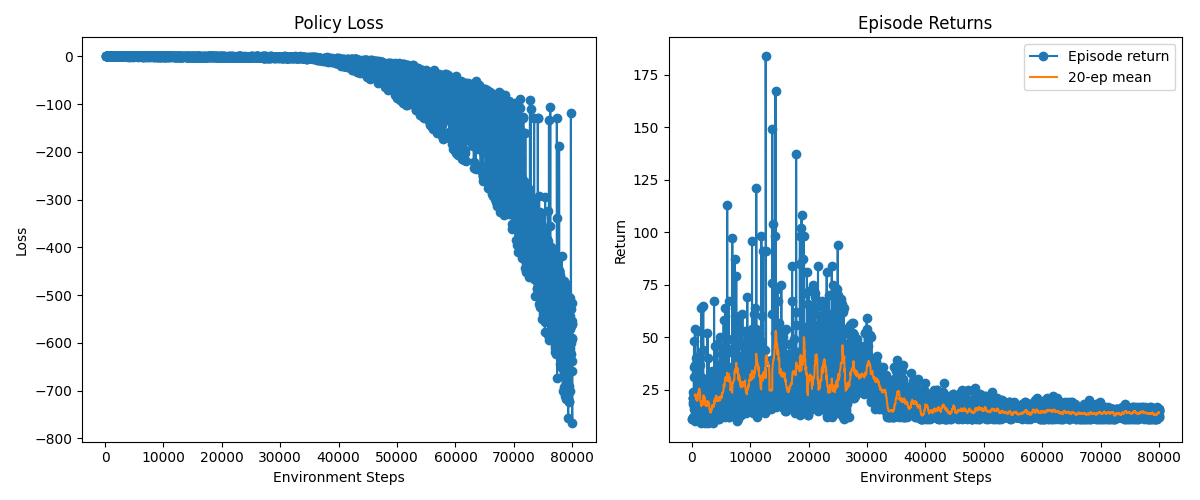
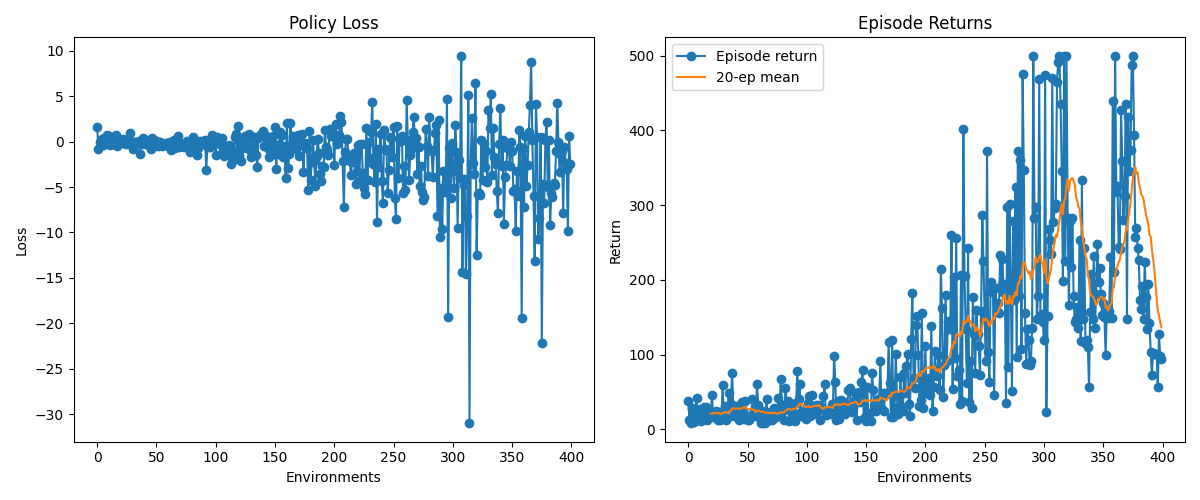
simplify code to work on a single environment - no batches

diff --git a/experiments/cartpole/train.py b/experiments/cartpole/train.py
@@ -41,18 +41,14 @@ def policy_gradient_loss(logits: torch.Tensor,
     loss = -(chosen_log_probs * advantages).mean()
     return loss
 
-num_steps = 10000
+num_episodes = 400
 optimizer = torch.optim.Adam(policy_model.parameters(), lr=1e-3)
-batch_size = 8
 gamma = 0.99
 
 # 3. Environment setup
 
-envs = gym.vector.SyncVectorEnv(
-    [lambda: gym.make("CartPole-v1") for _ in range(batch_size)],
-    autoreset_mode=gym.vector.AutoresetMode.NEXT_STEP
-)
-observations, info = envs.reset()
+env = gym.make("CartPole-v1")
+observations, info = env.reset()
 
 def discounted_returns(rewards, gamma):
     returns = []
@@ -64,103 +60,69 @@ def discounted_returns(rewards, gamma):
     return torch.tensor(returns, dtype=torch.float32)
 
 
-# logging variables
-losses = []
-loss_steps = []
-episode_observations = [[] for _ in range(batch_size)]
-episode_actions = [[] for _ in range(batch_size)]
-episode_rewards = [[] for _ in range(batch_size)]
-completed_rewards = []
-completed_steps = []
-total_env_steps = 0
-
 # 4. Training loop
+losses = []
+completed_rewards = []
 
-for epoch_id in range(num_steps):
+for episode in range(num_episodes):
 
-    # get action from policy
-    torch_observations = torch.tensor(observations, dtype=torch.float32)
-    logits = policy_model(torch_observations)
-    dist = torch.distributions.Categorical(logits=logits)
-    actions = dist.sample()
+    observation, _ = env.reset()
+    log_probs_episode = []
+    rewards_episode = []
+    done = False
 
-    # get observation from environment
-    observations, rewards, terminated, truncated, info = envs.step(actions.numpy())
+    while not done:
+
+        # get action from policy
+        torch_observations = torch.tensor(observations, dtype=torch.float32)
+        logits = policy_model(torch_observations)
+        dist = torch.distributions.Categorical(logits=logits)
+        actions = dist.sample()
+
+        # get observation from environment
+        observations, rewards, terminated, truncated, info = env.step(actions.numpy())
+        done = terminated or truncated
+
+        # store log probs and rewards
+        log_probs_episode.append(dist.log_prob(actions))
+        rewards_episode.append(rewards)
+    
+    # compute returns and advantages
+    returns = discounted_returns(rewards_episode, gamma=gamma)
+    advantages = (returns - returns.mean()) / (returns.std(unbiased=False) + 1e-8)
+
+    # loss
+    loss = -(torch.stack(log_probs_episode) * advantages).sum()
+    losses.append(loss.item())
+
+    # update policy
+    optimizer.zero_grad()
+    loss.backward()
+    optimizer.step()
 
     # logging
-    total_env_steps += batch_size
-    for i in range(batch_size):
-        episode_observations[i].append(observations[i])
-        episode_actions[i].append(actions[i].item())
-        episode_rewards[i].append(rewards[i])
+    completed_rewards.append(sum(rewards_episode))
 
-    # update only for completed episodes
-    done = terminated | truncated
-    if done.any():
-
-        # zero gradients
-        optimizer.zero_grad()
-
-        # compute loss for completed episodes and update policy
-        done_indices = np.where(done)[0].tolist()
-        per_episode_losses = []
-        for i in done_indices:
-
-            obs_tensor = torch.tensor(
-                np.array(episode_observations[i], dtype=np.float32),
-                dtype=torch.float32,
-            )
-            act_tensor = torch.tensor(episode_actions[i], dtype=torch.int64)
-            
-            # compute policy
-            logits_ep = policy_model(obs_tensor)
-            log_probs_ep = F.log_softmax(logits_ep, dim=-1)
-
-            # compute discounted returns and advantages
-            returns = discounted_returns(episode_rewards[i], gamma=gamma)
-            advantages = (returns - returns.mean()) / (returns.std(unbiased=False) + 1e-8)
-            
-            # compute loss for the episode
-            loss = policy_gradient_loss(logits_ep, act_tensor, advantages)
-            per_episode_losses.append(loss)
-
-            # log episode return and reset episode data
-            completed_rewards.append(float(sum(episode_rewards[i])))
-            completed_steps.append(total_env_steps)
-            episode_observations[i] = []
-            episode_actions[i] = []
-            episode_rewards[i] = []
-
-        # compute mean loss across completed episodes and update policy
-        loss = torch.stack(per_episode_losses).mean()
-        loss.backward()
-        optimizer.step()
-
-        losses.append(loss.item())
-        loss_steps.append(total_env_steps)
-
-envs.close()
+env.close()
 
 # 5. Plotting results
 
 fig = plt.figure(figsize=(12, 5))
 plt.subplot(1, 2, 1)
-if losses:
-    plt.plot(loss_steps, losses, "o-")
+plt.plot(losses, "o-")
 plt.title("Policy Loss")
-plt.xlabel("Environment Steps")
+plt.xlabel("Environments")
 plt.ylabel("Loss")
 
 plt.subplot(1, 2, 2)
-if completed_rewards:
-    plt.plot(completed_steps, completed_rewards, "o-", label="Episode return")
-    window = min(20, len(completed_rewards))
-    if window >= 2:
-        rolling = np.convolve(completed_rewards, np.ones(window) / window, mode="valid")
-        rolling_steps = completed_steps[window - 1:]
-        plt.plot(rolling_steps, rolling, "-", label=f"{window}-ep mean")
+plt.plot(completed_rewards, "o-", label="Episode return")
+window = min(20, len(completed_rewards))
+if window >= 2:
+    rolling = np.convolve(completed_rewards, np.ones(window) / window, mode="valid")
+    rolling_steps = list(range(window - 1, len(completed_rewards)))
+    plt.plot(rolling_steps, rolling, "-", label=f"{window}-ep mean")
 plt.title("Episode Returns")
-plt.xlabel("Environment Steps")
+plt.xlabel("Environments")
 plt.ylabel("Return")
 plt.legend()
 plt.tight_layout()
